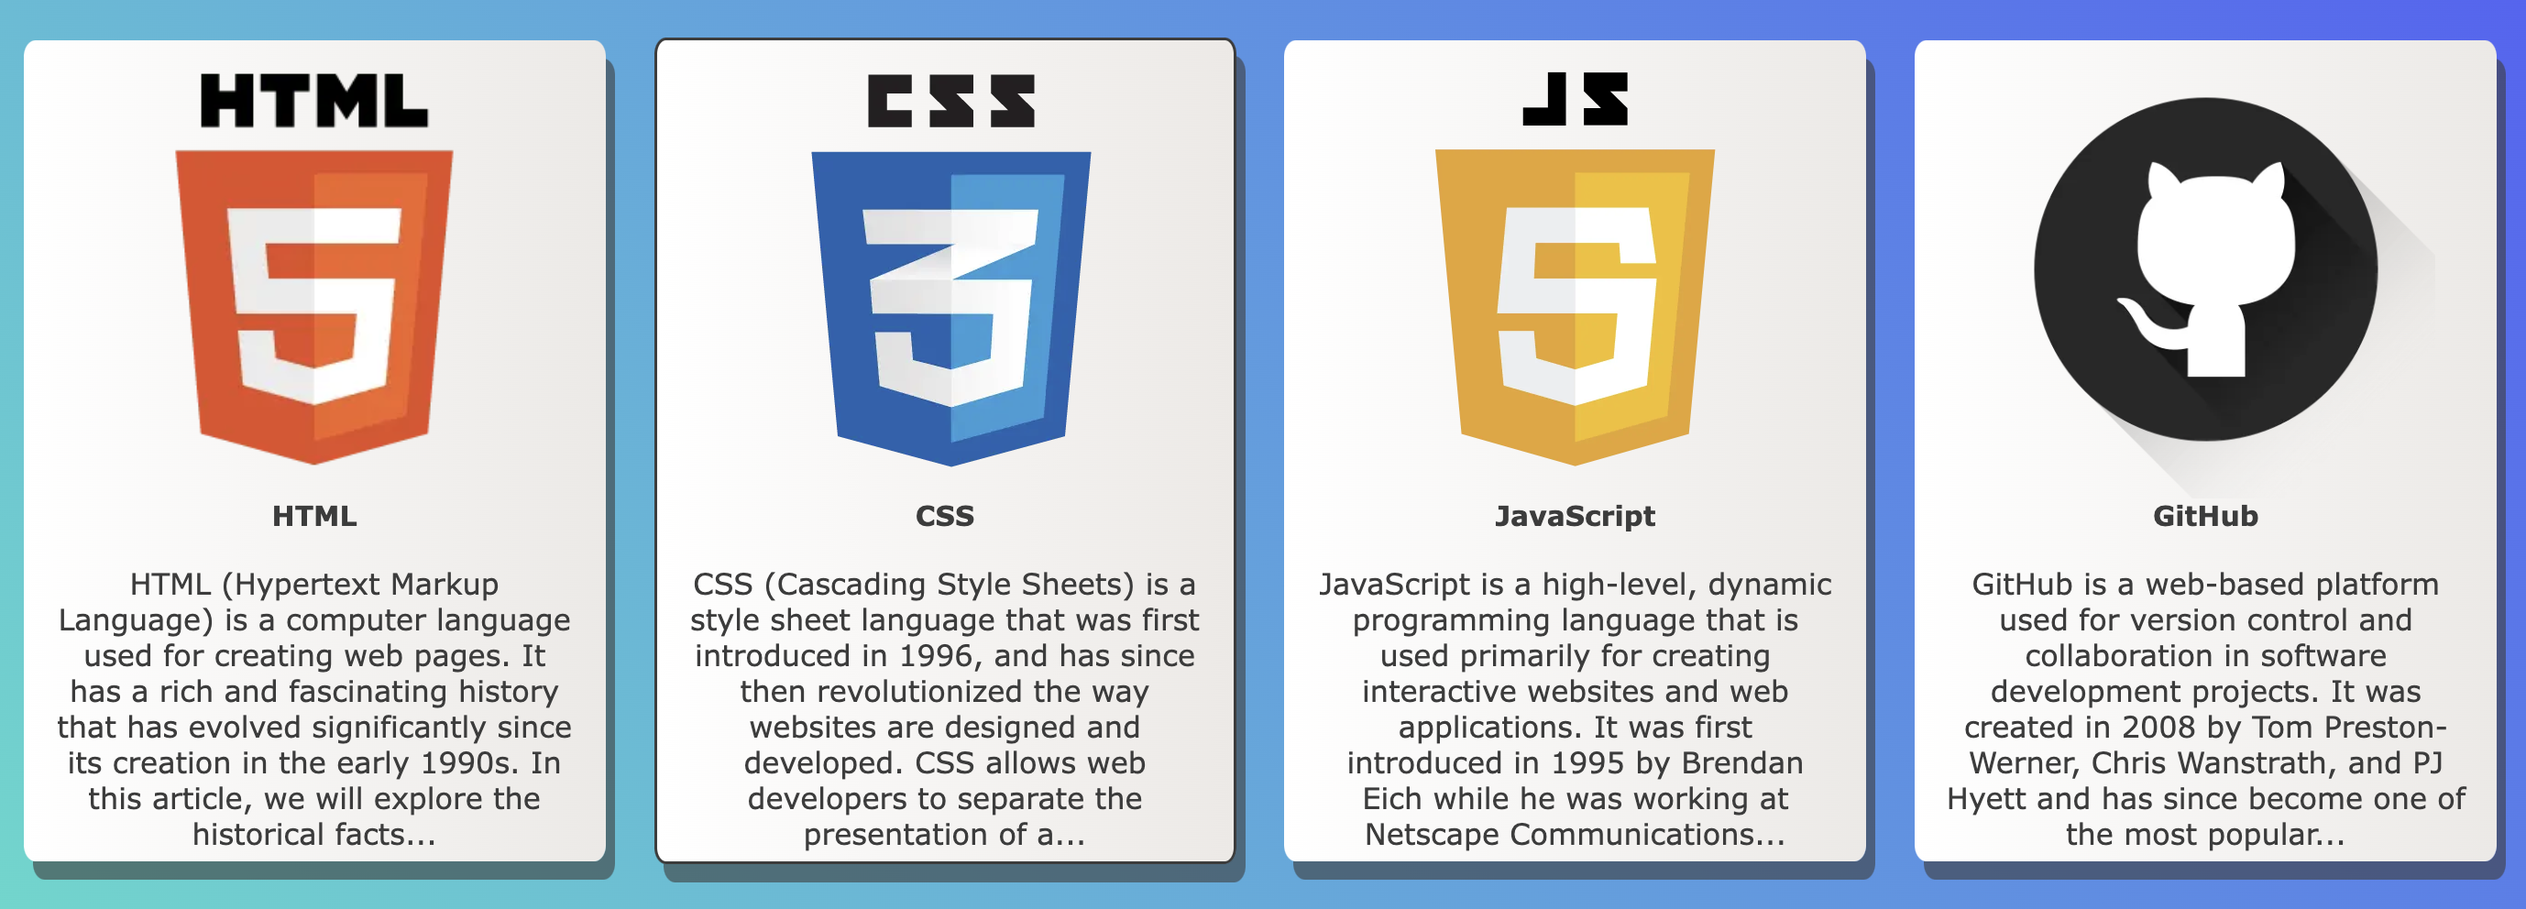
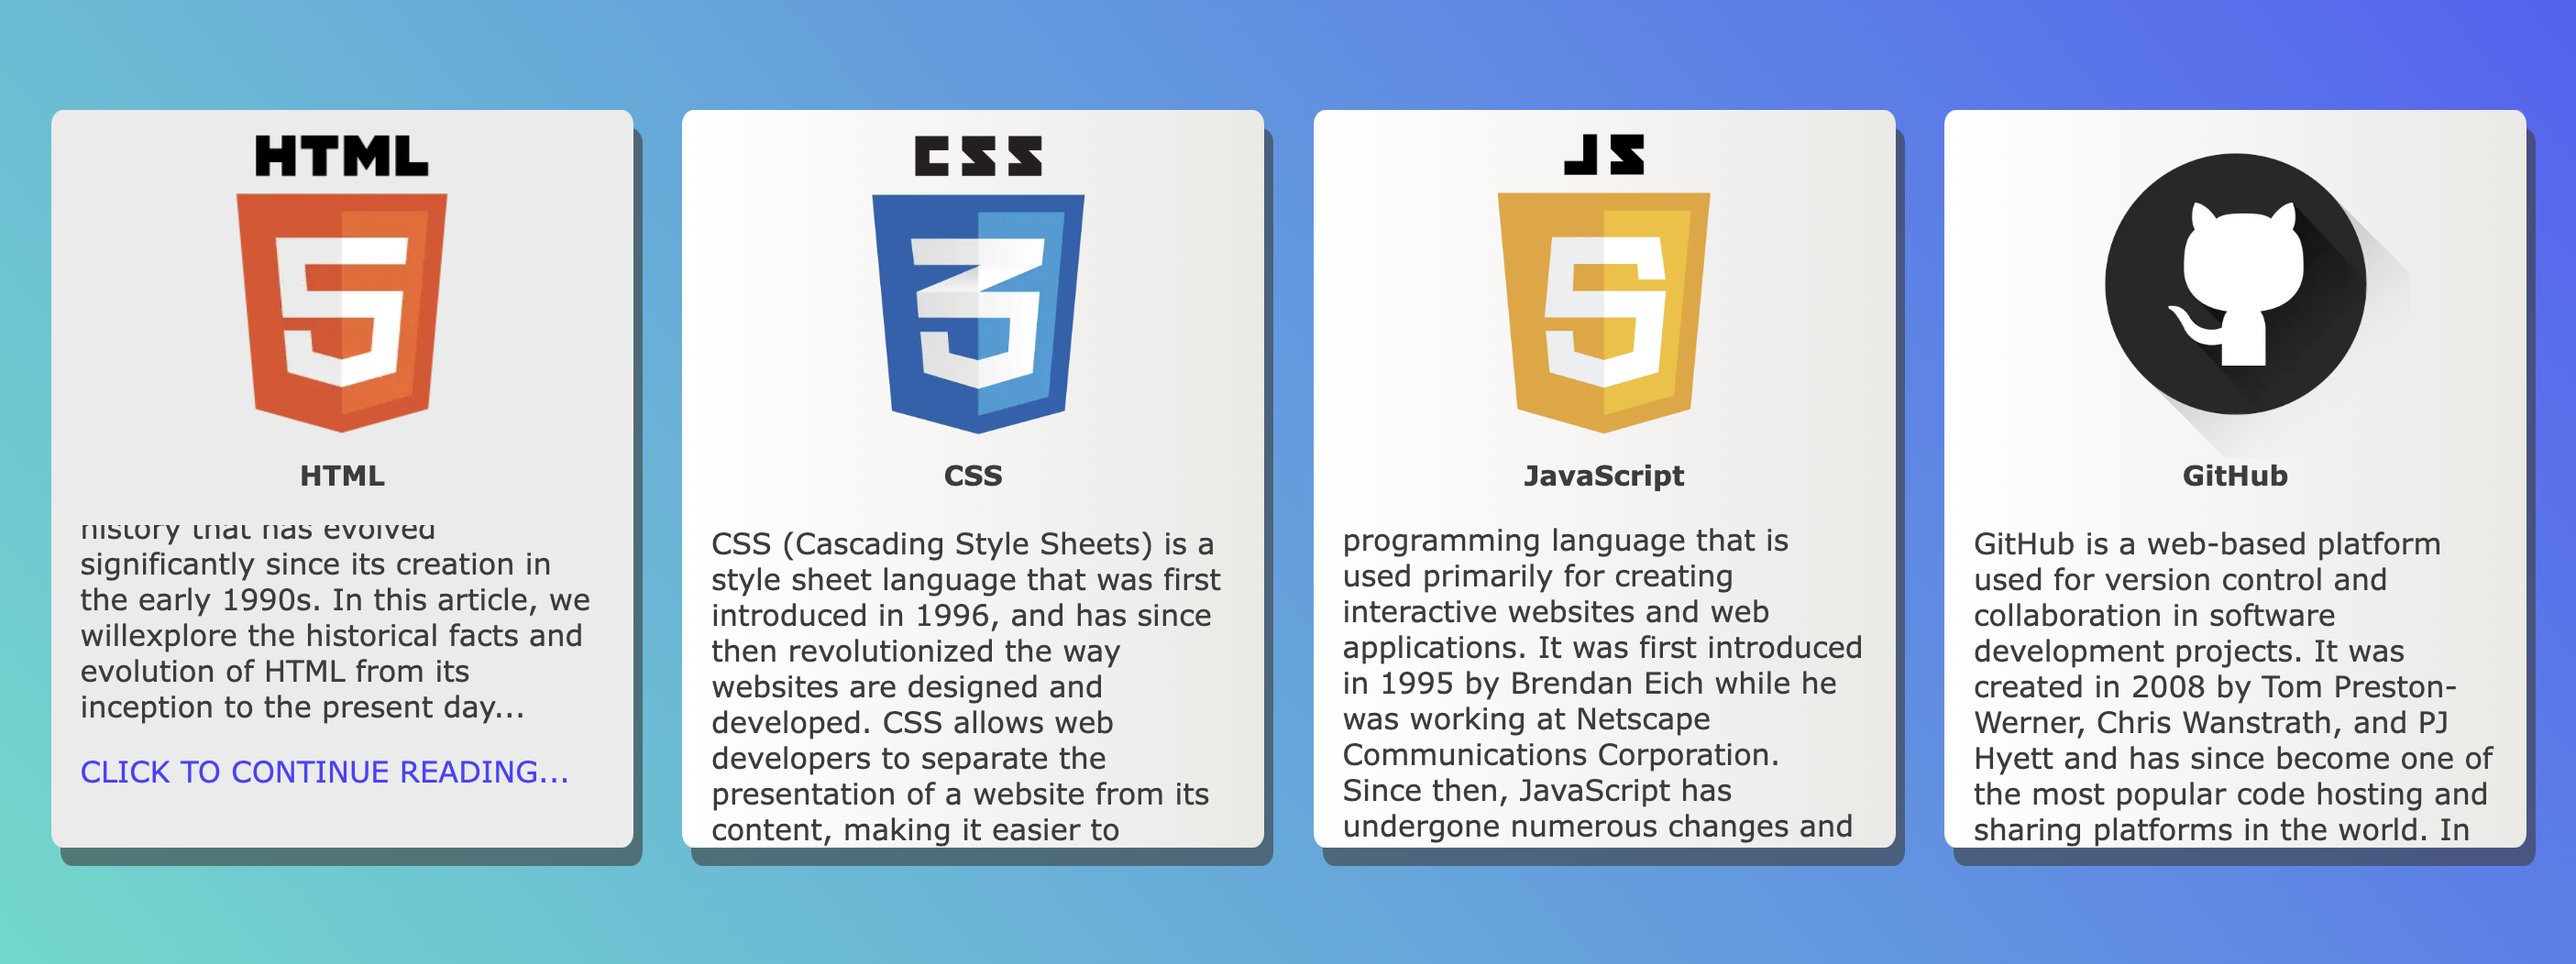
Updating reame.md

diff --git a/404.html b/404.html
@@ -1,7 +1,8 @@
 <!DOCTYPE html>
 <html lang="en">
 <head>
-  <style type=text/css>
+  <title>index.tech</title>
+  <style>
     #error-page {
       display: flex;
       flex-direction: column;
@@ -10,7 +11,7 @@
     }
 
     #error-page h1, h2 {
-      font-style: Teko, Verdana, Geneva, Tahoma, sans-serif;
+      font-family: Verdana, Geneva, Tahoma, sans-serif;
       
     }
 
@@ -19,7 +20,7 @@
     }
 
     #error-page p {
-      font-style: Teko, Verdana, Geneva, Tahoma, sans-serif;
+      font-family: Verdana, Geneva, Tahoma, sans-serif;
       font-size: 1.5em;
     }
   </style>
@@ -30,7 +31,7 @@
   <div id="error-page">
     <h1>404 Ooopps Something Went Wrong</h1>
     <h2>
-      The Page you are looking for does not exist!
+      The page you are looking for does not exist!
     </h2>
     <p>If you came upon this page by mistake, try checking the URL in your web browser.</p>
     <h2> <a href="https://humberto-pereira.github.io/index.tech/">back to Home</a> </h2>

diff --git a/README.md b/README.md
@@ -50,7 +50,7 @@ The purpose of the welcome text is to introduce users to the theme and content o
 
 # Article Cards
 
-The Article cards feature the logo image of the programming language or tool discussed in the article and a snippet of the article text. These cards are designed to provide a preview for the user and stimulate their curiosity with a visually appealing impact.
+The Article cards display the logo of the programming language or tools discussed in the article. Additionally, a scrollbar was implemented, and the message "click to continue reading" displays at the end of the first paragraph. Also, it changes the color to another shade of white when hovered to indicate that the card is clickable. The cards were created to give users a preview of the content and entice them to read more. To access the full article, users can click anywhere on the card.
 
 <img src="assets/readme-md-images/article-cards-screenshot.png" width="1600"/>
 
@@ -71,7 +71,7 @@ All four of the Article pages have the same style, which is simple and easy to u
 
 # Subscribe
 
-On the subscribe page, you will find a form that requires you to fill in three input fields: first name, last name, and email. Additionally, there is a checkbox for terms and conditions. The content of the terms and conditions is scrollable so the user can read it easily. The form's purpose is to subscribe to a newsletter and receive new posts via email. The terms and conditions are presented in a small size within the form.
+On the subscribe page, you will find a form that requires you to fill in three input fields: first name, last name, and email. Additionally, there is a checkbox for terms and conditions. The content of the terms and conditions is scrollable so the user can read it easily. The form's purpose is to the user subscribe to a newsletter and receive new posts via email.
 
 <img src="assets/readme-md-images/subscribe-screenshot.png" width="1600"/>
 
@@ -89,15 +89,21 @@ If The user encounter a 404 error, this page will show an error message that sug
 
 # Testing
 
-- Manual testing was conducted on several browsers, including Safari, Edge, Chrome, Firefox, and all Chrome inspect screen sizes. 
-During testing, we checked that all Menubar links and Cards Articles were displayed and behaved as expected when clicked, and all texts were displayed correctly. 
+- Manual testing was conducted on several browsers, including Safari, Edge, Chrome, Firefox, and Chrome dev tools devices sizes. 
+- During testing, we checked that all Menubar links and Cards Articles were displayed and behaved as expected when clicked, and all texts were displayed correctly. 
+- It was also confirmed that the landing page Article cards display and resize evenly on all display sizes, and the scrollable text works flawlessly.
 - All four Articles are displayed as expected with no issues.
-- All footer links open in a new browser tab, similar to Article links. Additionally, it was ensured that the all images, and texts were displayed without any issues. 
+- All footer links open in a new browser tab, similar to Article tutorial links. Additionally, it was ensured that the all images, and texts were displayed without any issues. 
 - On the Subscribe page, the form requires all input fields to be filled, a valid email, and the Terms and Conditions checkbox to be selected. 
 - It was also confirmed that the scroll function for Terms and Conditions worked as expected, and the form was submitted without problems. 
 - The Feedback page is displayed as expected all input fields are required to be filled, and a valid email format is necessary before submitting; feedback submission also works as expected.
 - On Smartphone and tablet screens, the site is fully responsive on all pages, including a hamburger menu that works flawlessly.
-- The 404 error is displayed as expected, providing a link to return to the website home page.
+- When an error occurs, the 404 error is displayed and includes a link to the website's home page tha works with no issues.
+
+## Bugs
+- The article cards had sizing issues on smaller screens due to the different lengths of the snippet text words. This caused the cards to have varying heights and some flex-box cards to resize unevenly, resulting in text overflow on smaller screens. Despite trying various solutions, none worked until a scrollbar was added to the text container. This fixed the issue, resulting in uniform card height across all screen sizes and no text overflow. The bug has been fixed.
+
+- The VS Code Prettier extension had added trailing slashes, which resulted in a warning message at the W3C validator. However, the issue has been resolved.
 
 # Validator Testing
 
@@ -107,7 +113,7 @@ During testing, we checked that all Menubar links and Cards Articles were displa
 
 - <a href="https://validator.w3.org/nu/?doc=https%3A%2F%2Fhumberto-pereira.github.io%2Findex.tech%2Fsubscribe.html">Subscribe Page: </a>
 
-- <a href="https://validator.w3.org/nu/?doc=https%3A%2F%2Fhumberto-pereira.github.io%2Findex.tech%2Fsubscribe.html">Feedback Page:</a>
+- <a href="https://validator.w3.org/nu/?doc=https%3A%2F%2Fhumberto-pereira.github.io%2Findex.tech%2Ffeedback.html">Feedback Page:</a>
 
 - <a href="https://validator.w3.org/nu/?doc=https%3A%2F%2Fhumberto-pereira.github.io%2Findex.tech%2Fhtml-article.html">HTML Article Page:</a>
 
@@ -117,6 +123,9 @@ During testing, we checked that all Menubar links and Cards Articles were displa
 
 
 - <a href="https://validator.w3.org/nu/?doc=https%3A%2F%2Fhumberto-pereira.github.io%2Findex.tech%2Fgithub-article.html">GitHub Article Page:</a>
+
+- Screenshot of 404.html W3C Validator by direct input
+- <img src="assets/readme-md-images/404-direct-input-w3c-validator.png" width="1600"/>
 
 ## W3C Css Validator Jigsaw
 
@@ -179,9 +188,9 @@ During testing, we checked that all Menubar links and Cards Articles were displa
 
 ## DESIGN:
 
-- Color scheme: The color scheme is a gradient of two shades of blue and white it fit with the image graphics chosen for the website with enough contrast for the user. 
-- Typography: Teko is used for titles and footer;  Verdana is the most used in all text content and is easy to read; the Geneva, Tahoma, and sans-serif are the backup fonts.
-- Imagery: good resolution images "not pixeled" with connection with the content.
+-The website's color scheme consists of a gradient of two shades of blue and white, which complements the chosen image graphics and provides sufficient contrast for the user. 
+-For titles and footer, the font used is Teko, while Verdana is the preferred font for all text content as it is easy to read. In case of any font compatibility issues, Geneva, Tahoma, and sans-serif are the backup fonts.
+- The website uses high-quality images that are relevant to the content and have good resolution without any pixelation.
 
 ## Thematic: Programming languages and tools; historical facts evolution and implementation.
 
